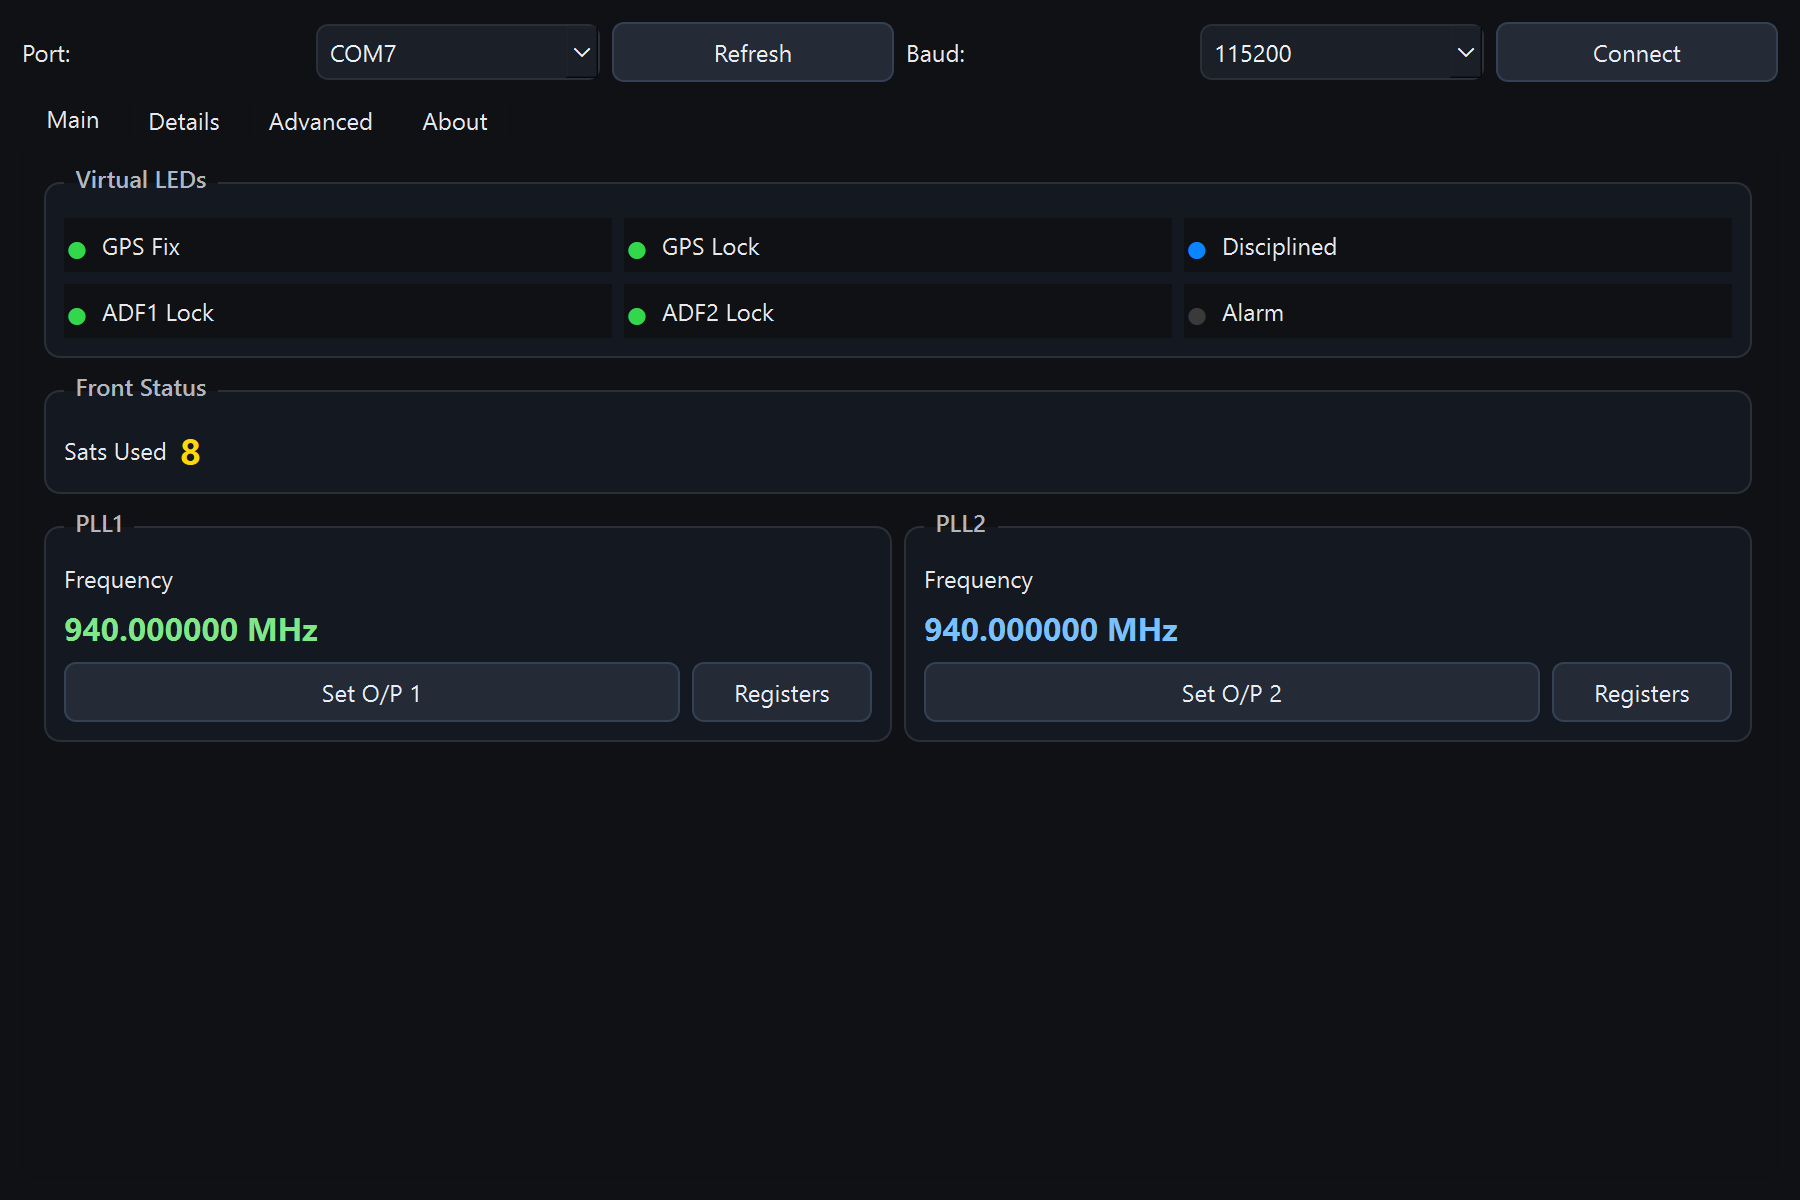
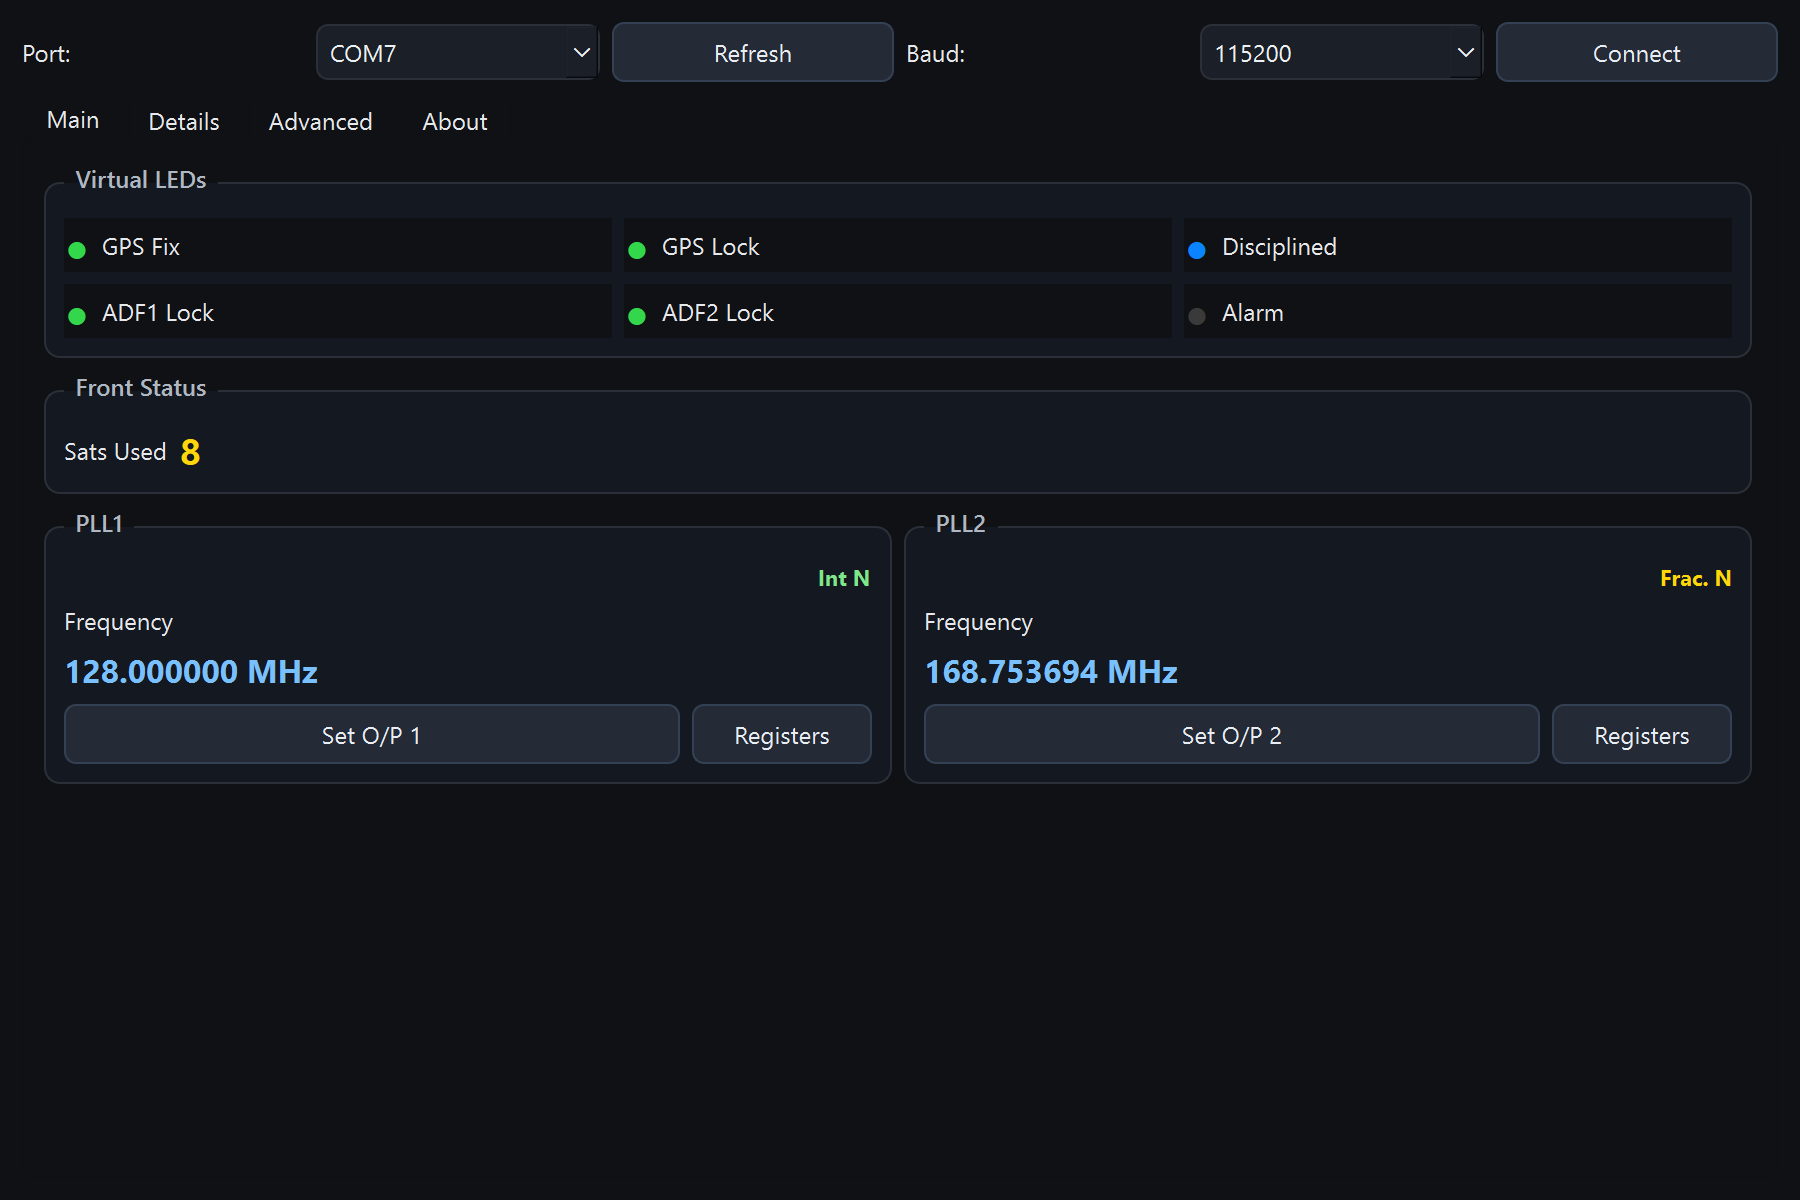
minor UI tweaks

Changed region(s): [[0.0311, 0.4625, 0.9644, 0.6475], [0.9333, 0.4625, 0.9644, 0.4933], [0.4667, 0.4625, 0.4978, 0.4933]]

diff --git a/monitor/gpsdo_monitor.py b/monitor/gpsdo_monitor.py
@@ -86,6 +86,9 @@ class PLLConfigDialog(QDialog):
             self.charge_pump.addItem(label, code)
         self.charge_pump.setCurrentIndex(7)
 
+        self.channel_step = QLabel('-')
+        self.channel_step.setStyleSheet('color: #aeb7c2; font-weight: 600;')
+
         form.addRow('Output frequency', self.freq_mhz)
         form.addRow('Reference', self.ref_mhz)
         form.addRow('R counter', self.r_counter)
@@ -93,6 +96,13 @@ class PLLConfigDialog(QDialog):
         form.addRow('RF output power', self.rf_power)
         form.addRow('Noise mode', self.noise_mode)
         form.addRow('Charge pump current', self.charge_pump)
+        form.addRow('Channel step', self.channel_step)
+
+        self.freq_mhz.valueChanged.connect(self._update_channel_step)
+        self.ref_mhz.valueChanged.connect(self._update_channel_step)
+        self.r_counter.valueChanged.connect(self._update_channel_step)
+        self.synth_mode.currentIndexChanged.connect(self._update_channel_step)
+        self._update_channel_step()
 
         buttons = QDialogButtonBox(QDialogButtonBox.Ok | QDialogButtonBox.Cancel)
         buttons.accepted.connect(self.accept)
@@ -114,6 +124,76 @@ class PLLConfigDialog(QDialog):
             'noise_mode': self.noise_mode.currentData(),
             'charge_pump_code': self.charge_pump.currentData(),
         }
+
+    def _format_hz(self, value_hz):
+        value = float(value_hz)
+        abs_value = abs(value)
+        if abs_value >= 1_000_000.0:
+            return f'{value / 1_000_000.0:.6f} MHz'
+        if abs_value >= 1_000.0:
+            return f'{value / 1_000.0:.3f} kHz'
+        return f'{value:.3f} Hz'
+
+    def _select_solution(self, int_solution, frac_solution):
+        synth_mode = self.synth_mode.currentData()
+        if synth_mode == 'int':
+            return int_solution, 'Integer-N'
+        if synth_mode == 'frac':
+            return frac_solution, 'Fractional-N'
+        if int_solution is not None and abs(float(int_solution.error_hz)) <= 1e-3:
+            return int_solution, 'Integer-N (auto)'
+        if frac_solution is not None:
+            return frac_solution, 'Fractional-N (auto)'
+        if int_solution is not None:
+            return int_solution, 'Integer-N (auto)'
+        return None, ''
+
+    def _update_channel_step(self, *_):
+        try:
+            vals = self.values()
+            int_cfg = ADF4351Config(
+                ref_hz=vals['ref_hz'],
+                r_counter=vals['r_counter'],
+                integer_n=True,
+                prescaler='auto',
+                band_select_clock_div=150,
+                rf_output_power_code=vals.get('rf_output_power_code', 3),
+                noise_mode=vals.get('noise_mode', 'low_noise'),
+                charge_pump_code=vals.get('charge_pump_code', 7),
+            )
+            frac_cfg = ADF4351Config(
+                ref_hz=vals['ref_hz'],
+                r_counter=vals['r_counter'],
+                integer_n=False,
+                channel_spacing_hz=1.0,
+                prescaler='auto',
+                band_select_clock_div=150,
+                rf_output_power_code=vals.get('rf_output_power_code', 3),
+                noise_mode=vals.get('noise_mode', 'low_noise'),
+                charge_pump_code=vals.get('charge_pump_code', 7),
+            )
+
+            int_solution = None
+            frac_solution = None
+            try:
+                int_solution = ADF4351RegisterCalculator(int_cfg).solve(vals['target_hz'])
+            except Exception:
+                pass
+            try:
+                frac_solution = ADF4351RegisterCalculator(frac_cfg).solve(vals['target_hz'])
+            except Exception:
+                pass
+
+            solution, mode_label = self._select_solution(int_solution, frac_solution)
+            if solution is None:
+                self.channel_step.setText('Unavailable for current settings')
+                return
+
+            mod_value = int(solution.mod_value) if int(solution.mod_value) > 0 else 1
+            step_hz = float(solution.pfd_hz) / float(mod_value * int(solution.output_divider))
+            self.channel_step.setText(f'{mode_label}: {self._format_hz(step_hz)}')
+        except Exception:
+            self.channel_step.setText('-')
 
 
 class RawRegistersDialog(QDialog):
@@ -545,9 +625,15 @@ class MainWindow(QWidget):
         # PLL quick-control cards (main tab)
         pll1_box = QGroupBox('PLL1')
         pll1_layout = QVBoxLayout()
+        pll1_header = QHBoxLayout()
+        pll1_header.addStretch(1)
+        self.pll1_mode_main = QLabel('-')
+        self.pll1_mode_main.setStyleSheet('font-size: 11px; font-weight: 700; color: #aeb7c2;')
+        pll1_header.addWidget(self.pll1_mode_main)
+        pll1_layout.addLayout(pll1_header)
         pll1_layout.addWidget(QLabel('Frequency'))
         self.pll1_freq_main = QLabel('-')
-        self.pll1_freq_main.setStyleSheet('font-size: 16px; font-weight: 700; color: #7ee787;')
+        self.pll1_freq_main.setStyleSheet('font-size: 16px; font-weight: 700; color: #79c0ff;')
         pll1_layout.addWidget(self.pll1_freq_main)
         self.set_pll1_btn = QPushButton('Set O/P 1')
         self.set_pll1_btn.clicked.connect(self.open_set_pll1_dialog)
@@ -562,6 +648,12 @@ class MainWindow(QWidget):
 
         pll2_box = QGroupBox('PLL2')
         pll2_layout = QVBoxLayout()
+        pll2_header = QHBoxLayout()
+        pll2_header.addStretch(1)
+        self.pll2_mode_main = QLabel('-')
+        self.pll2_mode_main.setStyleSheet('font-size: 11px; font-weight: 700; color: #aeb7c2;')
+        pll2_header.addWidget(self.pll2_mode_main)
+        pll2_layout.addLayout(pll2_header)
         pll2_layout.addWidget(QLabel('Frequency'))
         self.pll2_freq_main = QLabel('-')
         self.pll2_freq_main.setStyleSheet('font-size: 16px; font-weight: 700; color: #79c0ff;')
@@ -1148,16 +1240,21 @@ class MainWindow(QWidget):
                 txt = '\n'.join([f'R{i}: 0x{v:08X}' for i,v in enumerate(regs)])
                 decoded_text = self._decode_adf_regs_text(regs)
                 freq_mhz_text = self._decode_adf_freq_mhz_text(regs)
+                mode_text, mode_style = self._decode_adf_mode(regs)
                 if name.lower().startswith('adf1'):
                     self.latest_regs['adf1'] = [int(v) for v in regs]
                     self.adf1_regs_text.setPlainText(txt)
                     self.adf1_freq.setText(decoded_text)
                     self.pll1_freq_main.setText(freq_mhz_text)
+                    self.pll1_mode_main.setText(mode_text)
+                    self.pll1_mode_main.setStyleSheet(mode_style)
                 else:
                     self.latest_regs['adf2'] = [int(v) for v in regs]
                     self.adf2_regs_text.setPlainText(txt)
                     self.adf2_freq.setText(decoded_text)
                     self.pll2_freq_main.setText(freq_mhz_text)
+                    self.pll2_mode_main.setText(mode_text)
+                    self.pll2_mode_main.setStyleSheet(mode_style)
                 self.log_text.append(json.dumps(obj))
                 return
             if 'gps_fix' in obj:
@@ -1276,6 +1373,16 @@ class MainWindow(QWidget):
             return f"{decoded.rf_out_hz/1_000_000.0:.6f} MHz"
         except Exception:
             return '-'
+
+    def _decode_adf_mode(self, regs):
+        try:
+            words = [int(v) for v in regs]
+            decoded = ADF4351RegisterCalculator.decode_registers(words, ref_hz=self.decode_ref_hz)
+            if int(decoded.frac_value) == 0:
+                return 'Int N', 'font-size: 11px; font-weight: 700; color: #7ee787;'
+            return 'Frac. N', 'font-size: 11px; font-weight: 700; color: #ffd60a;'
+        except Exception:
+            return '-', 'font-size: 11px; font-weight: 700; color: #aeb7c2;'
 
     def _suggest_pll_defaults(self, firmware_cmd, fallback_freq_mhz):
         defaults = {

diff --git a/monitor/tools/capture_manual_screens.py b/monitor/tools/capture_manual_screens.py
@@ -13,6 +13,7 @@ if str(MONITOR_DIR) not in sys.path:
     sys.path.insert(0, str(MONITOR_DIR))
 
 from gpsdo_monitor import MainWindow, PLLConfigDialog, RawRegistersDialog
+from adf4351_registers import ADF4351Config, ADF4351RegisterCalculator
 
 
 DEMO_REGS_R0_TO_R5 = [
@@ -25,6 +26,22 @@ DEMO_REGS_R0_TO_R5 = [
 ]
 
 
+def _build_demo_regs(target_mhz, integer_n):
+    cfg = ADF4351Config(
+        ref_hz=10_000_000.0,
+        r_counter=5,
+        integer_n=bool(integer_n),
+        channel_spacing_hz=1.0,
+        prescaler='auto',
+        band_select_clock_div=150,
+        rf_output_power_code=3,
+        noise_mode='low_noise',
+        charge_pump_code=7,
+    )
+    solution = ADF4351RegisterCalculator(cfg).solve(float(target_mhz) * 1_000_000.0)
+    return [int(v) for v in solution.registers_r0_to_r5]
+
+
 def _save_widget_png(widget, out_path):
     widget.show()
     QApplication.processEvents()
@@ -35,6 +52,9 @@ def _save_widget_png(widget, out_path):
 
 
 def _seed_demo_data(window):
+    pll1_int_regs = _build_demo_regs(128.0, integer_n=True)
+    pll2_frac_regs = _build_demo_regs(168.7537, integer_n=False)
+
     window.handle_json(
         {
             'gps_fix': True,
@@ -59,7 +79,7 @@ def _seed_demo_data(window):
             'cmd': 'adf_regs',
             'status': 'ok',
             'name': 'adf1',
-            'regs': DEMO_REGS_R0_TO_R5,
+            'regs': pll1_int_regs,
         }
     )
     window.handle_json(
@@ -67,7 +87,7 @@ def _seed_demo_data(window):
             'cmd': 'adf_regs',
             'status': 'ok',
             'name': 'adf2',
-            'regs': DEMO_REGS_R0_TO_R5,
+            'regs': pll2_frac_regs,
         }
     )
 

diff --git a/docs/MONITOR_USER_MANUAL.md b/docs/MONITOR_USER_MANUAL.md
@@ -46,6 +46,8 @@ Screenshot source:
 - **PLL2** with **Set O/P 2** and **Registers**
 
 The frequency text in each card is decoded from live register readback.
+Each PLL card also shows a top-right synthesis mode badge from live register decode: **Int N** (green) or **Frac. N** (yellow).
+In this manual screenshot set, the Main view intentionally shows PLL1 as a clean Integer-N example and PLL2 as a clearly Fractional-N example.
 
 ### 4.2 Front Status
 - GPS Fix
@@ -94,8 +96,9 @@ Use this for normal operation.
    - Auto (prefer Integer-N, fallback Fractional-N)
    - Integer-N only
    - Fractional-N only
-4. Optionally tune RF power / noise mode / charge pump current.
-5. Click OK to send computed `set_all` registers and program the device.
+4. Check the read-only **Channel step** line to see effective tuning resolution for the current reference/R/mode combination.
+5. Optionally tune RF power / noise mode / charge pump current.
+6. Click OK to send computed `set_all` registers and program the device.
 
 ### 5.2 Set O/P 2
 Same process as PLL1.

diff --git a/README.md b/README.md
@@ -14,7 +14,7 @@ This README is for users who want to **flash**, **run**, and **use** the project
 - **Live status** (GPS fix/lock, satellites, DOP, alarm, lock states)
 - **Windows configuration tool** with Main/Details/Advamced/About tabs
 
-## RF/output notes (important)
+## RF output notes
 - **Two outputs are fully independent**: each PLL output has its own register set and can be tuned separately.
 - **Frequency range**: any frequency within the ADF4351 synthesizer output range is supported in software (approximately **34.375 MHz to 4.4 GHz**).
 	- Practical usable range depends on your board layout, output network, filtering, and measurement method.
